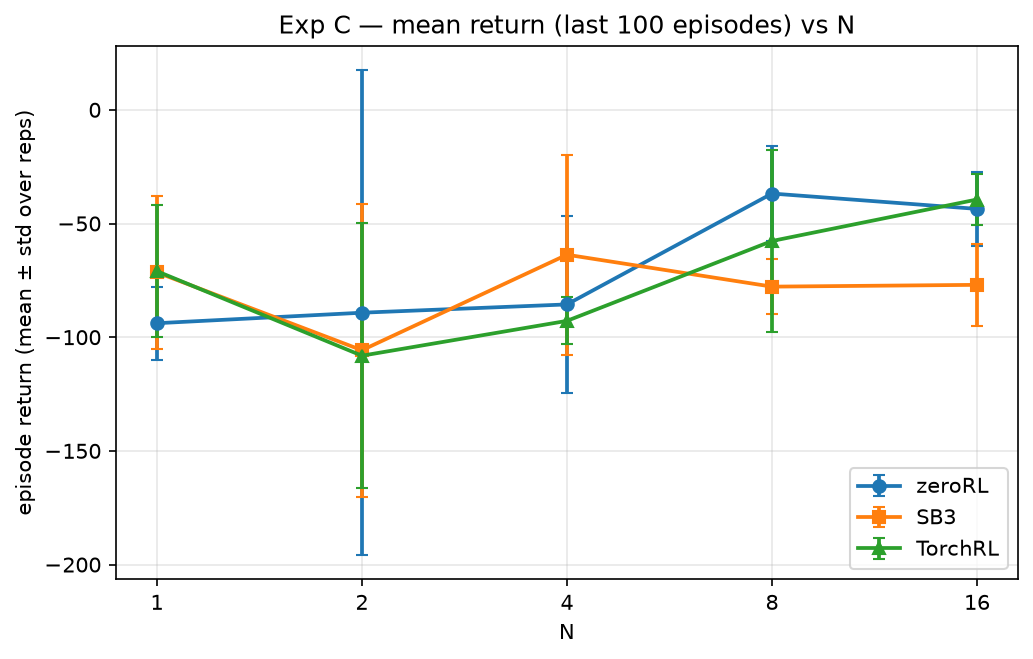
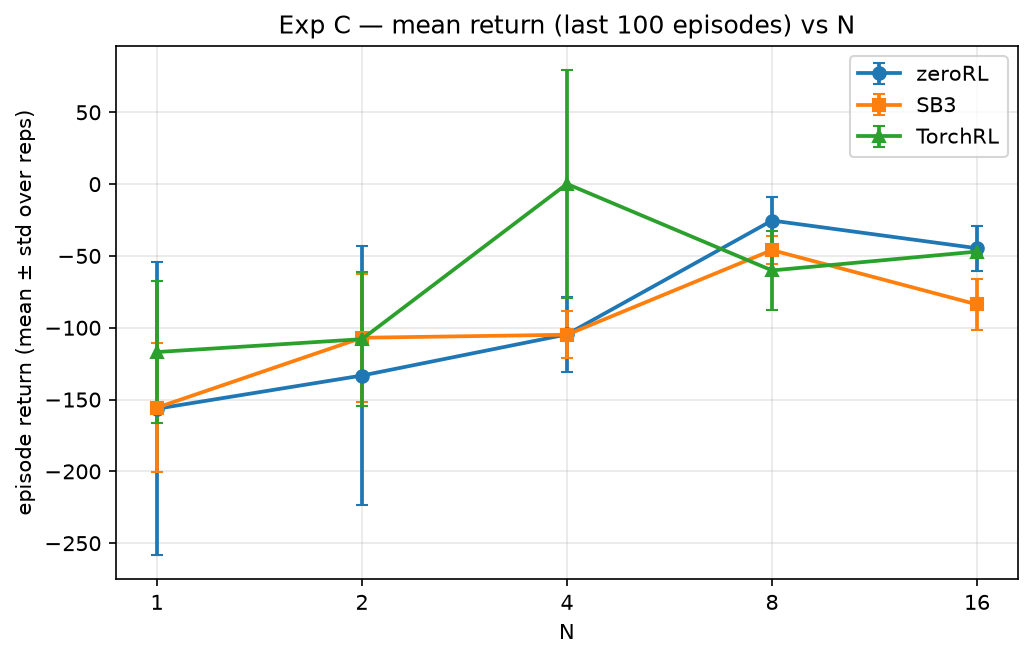
execucate bench

diff --git a/benchmarks/scalability/results/REPORT.md b/benchmarks/scalability/results/REPORT.md
@@ -1,24 +1,24 @@
 # Scalability benchmark report
 
-Generated: 2026-11-01T05:03:06.155123+00:00 · rows: 225 · figures in `figures/`
+Generated: 2026-11-03T23:13:55.289212+00:00 · rows: 517 · figures in `figures/`
 
 ## Environment
 
 | key | value |
 | --- | --- |
-| python | 3.11.14 |
-| platform | Linux-5.15.167.4-microsoft-standard-WSL2-x86_64-with-glibc2.39 |
-| processor | x86_64 |
+| python | 3.13.14 |
+| platform | Linux-6.8.12-tegra-aarch64-with-glibc2.39 |
+| processor | aarch64 |
 | device | cpu |
-| hostname | darrius |
+| hostname | gpu1 |
 | torch | 2.13.0+cu130 |
-| torch_num_threads | 6 |
-| cuda_available | False |
+| torch_num_threads | 14 |
+| cuda_available | True |
 | gymnasium | 1.3.0 |
-| sb3 | 2.9.2 |
+| sb3 | 2.9.0 |
 | torchrl | 0.14.1 |
 | tensordict | 0.14.3 |
-| git_sha | 6e59107451973271173ada17576bd74858297f8c |
+| git_sha | 8eb6392d7b63993aa0108ea1a6d24946bc28df8f |
 
 ## Methodology (summary)
 
@@ -33,21 +33,21 @@ Generated: 2026-11-01T05:03:06.155123+00:00 · rows: 225 · figures in `figures/
 
 | framework | N | throughput (trans/s) | mean time (s) | speedup (paired) | env-scaling efficiency (paired) | pairs (n) |
 | --- | --- | --- | --- | --- | --- | --- |
-| zeroRL | 1 | 1,926.8 ± 25.1 | 51.91 | 1.00 | 1.00 | 5 |
-| zeroRL | 2 | 2,344.1 ± 64.4 | 42.69 | 1.22 ± 0.04 | 0.61 ± 0.02 | 5 |
-| zeroRL | 4 | 3,760.2 ± 106.7 | 26.61 | 1.95 ± 0.06 | 0.49 ± 0.01 | 5 |
-| zeroRL | 8 | 5,598.6 ± 87.7 | 17.87 | 2.91 ± 0.06 | 0.36 ± 0.01 | 5 |
-| zeroRL | 16 | 7,283.1 ± 200.1 | 13.74 | 3.78 ± 0.14 | 0.24 ± 0.01 | 5 |
-| SB3 | 1 | 1,887.7 ± 32.6 | 52.99 | 1.00 | 1.00 | 5 |
-| SB3 | 2 | 2,321.5 ± 49.4 | 43.09 | 1.23 ± 0.03 | 0.62 ± 0.02 | 5 |
-| SB3 | 4 | 3,770.5 ± 94.6 | 26.54 | 2.00 ± 0.06 | 0.50 ± 0.02 | 5 |
-| SB3 | 8 | 5,547.9 ± 263.8 | 18.06 | 2.94 ± 0.10 | 0.37 ± 0.01 | 5 |
-| SB3 | 16 | 7,280.2 ± 370.6 | 13.76 | 3.86 ± 0.22 | 0.24 ± 0.01 | 5 |
-| TorchRL | 1 | 645.3 ± 5.6 | 154.97 | 1.00 | 1.00 | 5 |
-| TorchRL | 2 | 848.1 ± 17.2 | 117.96 | 1.31 ± 0.03 | 0.66 ± 0.02 | 5 |
-| TorchRL | 4 | 1,521.4 ± 10.1 | 65.73 | 2.36 ± 0.03 | 0.59 ± 0.01 | 5 |
-| TorchRL | 8 | 2,660.1 ± 41.4 | 37.60 | 4.12 ± 0.04 | 0.52 ± 0.01 | 5 |
-| TorchRL | 16 | 4,293.9 ± 174.2 | 23.32 | 6.65 ± 0.30 | 0.42 ± 0.02 | 5 |
+| zeroRL | 1 | 1,657.0 ± 15.6 | 60.35 | 1.00 | 1.00 | 5 |
+| zeroRL | 2 | 2,415.7 ± 38.8 | 41.41 | 1.46 ± 0.02 | 0.73 ± 0.01 | 5 |
+| zeroRL | 4 | 4,582.0 ± 47.1 | 21.83 | 2.75 ± 0.05 | 0.69 ± 0.01 | 5 |
+| zeroRL | 8 | 4,755.4 ± 40.3 | 21.03 | 2.86 ± 0.03 | 0.36 ± 0.00 | 5 |
+| zeroRL | 16 | 8,175.7 ± 127.6 | 12.23 | 4.93 ± 0.05 | 0.31 ± 0.00 | 5 |
+| SB3 | 1 | 1,593.6 ± 10.5 | 62.75 | 1.00 | 1.00 | 5 |
+| SB3 | 2 | 2,448.9 ± 18.0 | 40.84 | 1.54 ± 0.01 | 0.77 ± 0.01 | 5 |
+| SB3 | 4 | 4,577.4 ± 62.5 | 21.85 | 2.85 ± 0.05 | 0.71 ± 0.01 | 5 |
+| SB3 | 8 | 4,712.2 ± 29.3 | 21.22 | 2.96 ± 0.03 | 0.37 ± 0.00 | 5 |
+| SB3 | 16 | 7,991.2 ± 124.6 | 12.52 | 5.02 ± 0.13 | 0.31 ± 0.01 | 5 |
+| TorchRL | 1 | 826.2 ± 23.6 | 121.13 | 1.00 | 1.00 | 5 |
+| TorchRL | 2 | 1,307.2 ± 73.6 | 76.72 | 1.53 ± 0.06 | 0.76 ± 0.03 | 5 |
+| TorchRL | 4 | 2,382.4 ± 125.0 | 42.08 | 2.79 ± 0.10 | 0.70 ± 0.02 | 5 |
+| TorchRL | 8 | 3,375.6 ± 98.6 | 29.65 | 4.05 ± 0.11 | 0.51 ± 0.01 | 5 |
+| TorchRL | 16 | 5,785.2 ± 193.1 | 17.30 | 6.94 ± 0.36 | 0.43 ± 0.02 | 5 |
 
 ![throughput](figures/expA_throughput.png)
 
@@ -56,17 +56,46 @@ Generated: 2026-11-01T05:03:06.155123+00:00 · rows: 225 · figures in `figures/
 ![efficiency](figures/expA_efficiency.png)
 
 
+## Experiment A — GPU (device=cuda)
+
+Rows recorded with device=cuda; every statistic in this section is computed on this side only and never combined with CPU rows.
+
+| framework | N | throughput (trans/s) | mean time (s) | speedup (paired) | env-scaling efficiency (paired) | pairs (n) |
+| --- | --- | --- | --- | --- | --- | --- |
+| zeroRL | 1 | 1,084.8 ± 30.7 | 92.25 | 1.00 | 1.00 | 5 |
+| zeroRL | 2 | 2,031.1 ± 37.8 | 49.25 | 1.85 ± 0.05 | 0.93 ± 0.02 | 5 |
+| zeroRL | 4 | 3,752.1 ± 114.4 | 26.68 | 3.42 ± 0.07 | 0.86 ± 0.02 | 5 |
+| zeroRL | 8 | 6,132.1 ± 209.2 | 16.33 | 5.62 ± 0.24 | 0.70 ± 0.03 | 5 |
+| zeroRL | 16 | 10,055.8 ± 364.0 | 9.96 | 9.17 ± 0.29 | 0.57 ± 0.02 | 5 |
+| SB3 | 1 | 1,301.8 ± 31.2 | 76.86 | 1.00 | 1.00 | 5 |
+| SB3 | 2 | 2,458.5 ± 49.7 | 40.69 | 1.87 ± 0.04 | 0.93 ± 0.02 | 5 |
+| SB3 | 4 | 4,491.4 ± 116.8 | 22.28 | 3.51 ± 0.08 | 0.88 ± 0.02 | 5 |
+| SB3 | 8 | 7,658.3 ± 298.3 | 13.08 | 5.93 ± 0.20 | 0.74 ± 0.02 | 5 |
+| SB3 | 16 | 12,179.2 ± 339.5 | 8.22 | 9.24 ± 0.39 | 0.58 ± 0.02 | 5 |
+| TorchRL | 1 | 643.8 ± 15.5 | 155.42 | 1.00 | 1.00 | 5 |
+| TorchRL | 2 | 1,245.6 ± 7.2 | 80.28 | 1.94 ± 0.05 | 0.97 ± 0.03 | 5 |
+| TorchRL | 4 | 2,270.8 ± 56.6 | 44.06 | 3.55 ± 0.08 | 0.89 ± 0.02 | 5 |
+| TorchRL | 8 | 4,015.5 ± 190.4 | 24.96 | 6.07 ± 0.44 | 0.76 ± 0.06 | 5 |
+| TorchRL | 16 | 6,809.0 ± 204.9 | 14.70 | 10.39 ± 0.44 | 0.65 ± 0.03 | 5 |
+
+![throughput](figures/expA_gpu_throughput.png)
+
+![speedup](figures/expA_gpu_speedup.png)
+
+![efficiency](figures/expA_gpu_efficiency.png)
+
+
 ## Experiment B — worker scaling (collection, N=8)
 
 | framework | W | throughput (trans/s) | mean time (s) | speedup (paired) | worker parallel efficiency (paired) | pairs (n) |
 | --- | --- | --- | --- | --- | --- | --- |
-| zeroRL | 1 | 5,639.2 ± 181.1 | 17.75 | 1.00 | 1.00 | 5 |
-| SB3 | 1 | 5,460.7 ± 248.0 | 18.34 | 1.00 | 1.00 | 5 |
-| SB3 | 8 | 2,886.7 ± 56.7 | 34.65 | 0.53 ± 0.02 | 0.07 ± 0.00 | 5 |
-| TorchRL | 1 | 2,619.0 ± 106.1 | 38.23 | 1.00 | 1.00 | 5 |
-| TorchRL | 2 | 3,853.9 ± 161.9 | 25.99 | 1.47 ± 0.10 | 0.74 ± 0.05 | 5 |
-| TorchRL | 4 | 3,105.6 ± 120.1 | 32.24 | 1.19 ± 0.04 | 0.30 ± 0.01 | 5 |
-| TorchRL | 8 | 2,119.0 ± 76.3 | 47.24 | 0.81 ± 0.05 | 0.10 ± 0.01 | 5 |
+| zeroRL | 1 | 4,474.1 ± 20.8 | 22.35 | 1.00 | 1.00 | 5 |
+| SB3 | 1 | 4,472.1 ± 38.7 | 22.36 | 1.00 | 1.00 | 5 |
+| SB3 | 8 | 3,966.0 ± 59.4 | 25.22 | 0.89 ± 0.02 | 0.11 ± 0.00 | 5 |
+| TorchRL | 1 | 3,308.5 ± 8.5 | 30.23 | 1.00 | 1.00 | 5 |
+| TorchRL | 2 | 7,332.2 ± 273.1 | 13.65 | 2.22 ± 0.08 | 1.11 ± 0.04 | 5 |
+| TorchRL | 4 | 7,842.2 ± 69.0 | 12.75 | 2.37 ± 0.02 | 0.59 ± 0.01 | 5 |
+| TorchRL | 8 | 8,452.6 ± 104.3 | 11.83 | 2.55 ± 0.04 | 0.32 ± 0.00 | 5 |
 
 **Unsupported (recorded, not run)**:
 
@@ -107,21 +136,21 @@ Generated: 2026-11-01T05:03:06.155123+00:00 · rows: 225 · figures in `figures/
 
 | framework | N | updates | throughput (trans/s) | mean time (s) | mean return (last 100) | reps |
 | --- | --- | --- | --- | --- | --- | --- |
-| zeroRL | 1 | 128 | 1,121.7 ± 131.9 | 236.0 | -93.9 ± 16.0 | 3 |
-| zeroRL | 2 | 64 | 1,316.5 ± 27.9 | 199.2 | -89.2 ± 106.6 | 3 |
-| zeroRL | 4 | 32 | 1,712.3 ± 12.7 | 153.1 | -85.6 ± 38.8 | 3 |
-| zeroRL | 8 | 16 | 2,003.3 ± 40.8 | 130.9 | -36.8 ± 20.8 | 3 |
-| zeroRL | 16 | 8 | 2,200.9 ± 21.6 | 119.1 | -43.6 ± 16.3 | 3 |
-| SB3 | 1 | 128 | 1,037.1 ± 13.7 | 252.8 | -71.5 ± 33.5 | 3 |
-| SB3 | 2 | 64 | 1,148.1 ± 6.4 | 228.3 | -105.7 ± 64.5 | 3 |
-| SB3 | 4 | 32 | 1,389.1 ± 23.3 | 188.7 | -63.7 ± 44.0 | 3 |
-| SB3 | 8 | 16 | 1,163.9 ± 248.5 | 231.5 | -77.8 ± 12.0 | 3 |
-| SB3 | 16 | 8 | 1,014.6 ± 88.8 | 259.7 | -77.0 ± 18.0 | 3 |
-| TorchRL | 1 | 128 | 347.0 ± 33.4 | 759.9 | -71.0 ± 29.0 | 3 |
-| TorchRL | 2 | 64 | 477.9 ± 13.0 | 548.8 | -108.1 ± 58.3 | 3 |
-| TorchRL | 4 | 32 | 634.0 ± 4.3 | 413.5 | -92.8 ± 10.4 | 3 |
-| TorchRL | 8 | 16 | 782.3 ± 13.3 | 335.1 | -57.7 ± 39.9 | 3 |
-| TorchRL | 16 | 8 | 884.6 ± 1.1 | 296.4 | -39.4 ± 11.4 | 3 |
+| zeroRL | 1 | 128 | 766.1 ± 4.5 | 342.2 | -156.4 ± 102.0 | 3 |
+| zeroRL | 2 | 64 | 967.9 ± 18.2 | 270.9 | -133.3 ± 90.1 | 3 |
+| zeroRL | 4 | 32 | 1,274.8 ± 8.4 | 205.6 | -104.6 ± 26.3 | 3 |
+| zeroRL | 8 | 16 | 1,283.2 ± 5.5 | 204.3 | -25.3 ± 16.3 | 3 |
+| zeroRL | 16 | 8 | 1,453.1 ± 5.5 | 180.4 | -44.6 ± 15.7 | 3 |
+| SB3 | 1 | 128 | 723.5 ± 2.6 | 362.3 | -155.6 ± 44.8 | 3 |
+| SB3 | 2 | 64 | 877.0 ± 0.8 | 298.9 | -107.0 ± 44.6 | 3 |
+| SB3 | 4 | 32 | 1,056.8 ± 4.6 | 248.1 | -104.9 ± 16.5 | 3 |
+| SB3 | 8 | 16 | 1,065.9 ± 3.0 | 245.9 | -45.9 ± 9.6 | 3 |
+| SB3 | 16 | 8 | 1,186.6 ± 2.6 | 220.9 | -83.8 ± 17.8 | 3 |
+| TorchRL | 1 | 128 | 424.2 ± 3.0 | 618.0 | -116.9 ± 49.3 | 3 |
+| TorchRL | 2 | 64 | 536.6 ± 2.3 | 488.6 | -107.9 ± 46.7 | 3 |
+| TorchRL | 4 | 32 | 689.6 ± 2.1 | 380.1 | 0.2 ± 79.1 | 3 |
+| TorchRL | 8 | 16 | 780.2 ± 1.0 | 336.0 | -60.1 ± 27.6 | 3 |
+| TorchRL | 16 | 8 | 861.9 ± 3.9 | 304.2 | -47.0 ± 2.1 | 3 |
 
 ![throughput](figures/expC_throughput.png)
 
@@ -132,21 +161,21 @@ Generated: 2026-11-01T05:03:06.155123+00:00 · rows: 225 · figures in `figures/
 
 | framework | N | updates | throughput (trans/s) | mean time (s) | mean return (last 100) | reps |
 | --- | --- | --- | --- | --- | --- | --- |
-| zeroRL | 1 | 128 | 1,092.9 ± 26.9 | 240.0 | -93.9 ± 16.0 | 3 |
-| zeroRL | 2 | 128 | 1,221.0 ± 15.4 | 214.7 | -74.5 ± 140.2 | 3 |
-| zeroRL | 4 | 128 | 1,585.6 ± 9.8 | 165.3 | -142.7 ± 52.2 | 3 |
-| zeroRL | 8 | 128 | 1,823.5 ± 39.3 | 143.8 | -101.0 ± 98.2 | 3 |
-| zeroRL | 16 | 128 | 1,881.7 ± 42.7 | 139.4 | -37.3 ± 67.3 | 3 |
-| SB3 | 1 | 128 | 832.5 ± 23.6 | 315.0 | -71.5 ± 33.5 | 3 |
-| SB3 | 2 | 128 | 941.6 ± 1.3 | 278.4 | -117.1 ± 104.9 | 3 |
-| SB3 | 4 | 128 | 1,145.3 ± 5.0 | 228.9 | -118.7 ± 21.7 | 3 |
-| SB3 | 8 | 128 | 1,287.2 ± 7.1 | 203.7 | -54.4 ± 36.8 | 3 |
-| SB3 | 16 | 128 | 1,365.6 ± 10.2 | 192.0 | -145.7 ± 24.8 | 3 |
-| TorchRL | 1 | 128 | 367.3 ± 0.5 | 713.8 | -71.0 ± 29.0 | 3 |
-| TorchRL | 2 | 128 | 433.1 ± 3.3 | 605.3 | -138.5 ± 64.1 | 3 |
-| TorchRL | 4 | 128 | 572.8 ± 12.2 | 457.8 | -82.0 ± 54.6 | 3 |
-| TorchRL | 8 | 128 | 705.3 ± 19.0 | 371.8 | -118.4 ± 39.7 | 3 |
-| TorchRL | 16 | 128 | 802.6 ± 10.7 | 326.6 | -118.9 ± 71.6 | 3 |
+| zeroRL | 1 | 128 | 816.5 ± 4.1 | 321.1 | -156.4 ± 102.0 | 3 |
+| zeroRL | 2 | 128 | 1,028.6 ± 1.0 | 254.9 | -93.2 ± 9.3 | 3 |
+| zeroRL | 4 | 128 | 1,279.2 ± 3.0 | 204.9 | -162.9 ± 44.9 | 3 |
+| zeroRL | 8 | 128 | 1,293.0 ± 5.7 | 202.8 | -59.4 ± 66.5 | 3 |
+| zeroRL | 16 | 128 | 1,484.7 ± 5.2 | 176.6 | -68.4 ± 111.2 | 3 |
+| SB3 | 1 | 128 | 716.9 ± 1.9 | 365.7 | -155.6 ± 44.8 | 3 |
+| SB3 | 2 | 128 | 873.2 ± 3.6 | 300.2 | -53.4 ± 38.9 | 3 |
+| SB3 | 4 | 128 | 1,046.4 ± 2.1 | 250.5 | -97.3 ± 112.5 | 3 |
+| SB3 | 8 | 128 | 1,063.3 ± 1.6 | 246.5 | -78.1 ± 111.2 | 3 |
+| SB3 | 16 | 128 | 1,174.8 ± 5.8 | 223.1 | -96.1 ± 46.7 | 3 |
+| TorchRL | 1 | 128 | 431.0 ± 3.0 | 608.2 | -116.9 ± 49.3 | 3 |
+| TorchRL | 2 | 128 | 552.3 ± 2.1 | 474.7 | -57.5 ± 80.4 | 3 |
+| TorchRL | 4 | 128 | 707.9 ± 2.7 | 370.3 | -117.8 ± 57.2 | 3 |
+| TorchRL | 8 | 128 | 803.0 ± 9.3 | 326.5 | -125.5 ± 4.8 | 3 |
+| TorchRL | 16 | 128 | 887.8 ± 11.4 | 295.3 | -58.2 ± 98.9 | 3 |
 
 ![throughput](figures/expD_throughput.png)
 
@@ -155,52 +184,55 @@ Generated: 2026-11-01T05:03:06.155123+00:00 · rows: 225 · figures in `figures/
 
 ## Findings (computed from the data)
 
-- Exp A collection, N=1: fastest = **zeroRL** (1,927 trans/s); also SB3 1,888, TorchRL 645.
-- Exp A collection, N=2: fastest = **zeroRL** (2,344 trans/s); also SB3 2,322, TorchRL 848.
-- Exp A collection, N=4: fastest = **SB3** (3,770 trans/s); also zeroRL 3,760, TorchRL 1,521.
-- Exp A collection, N=8: fastest = **zeroRL** (5,599 trans/s); also SB3 5,548, TorchRL 2,660.
-- Exp A collection, N=16: fastest = **zeroRL** (7,283 trans/s); also SB3 7,280, TorchRL 4,294.
-- Exp B collection, W=1 (N=8): fastest = **zeroRL** (5,639 trans/s); also SB3 5,461, TorchRL 2,619.
-- Exp B collection, W=2 (N=8): fastest = **TorchRL** (3,854 trans/s).
-- Exp B collection, W=4 (N=8): fastest = **TorchRL** (3,106 trans/s).
-- Exp B collection, W=8 (N=8): fastest = **SB3** (2,887 trans/s); also TorchRL 2,119.
-- Exp C PPO, N=1: fastest = **zeroRL** (1,122 trans/s); also SB3 1,037, TorchRL 347.
-- Exp C PPO, N=2: fastest = **zeroRL** (1,316 trans/s); also SB3 1,148, TorchRL 478.
-- Exp C PPO, N=4: fastest = **zeroRL** (1,712 trans/s); also SB3 1,389, TorchRL 634.
-- Exp C PPO, N=8: fastest = **zeroRL** (2,003 trans/s); also SB3 1,164, TorchRL 782.
-- Exp C PPO, N=16: fastest = **zeroRL** (2,201 trans/s); also SB3 1,015, TorchRL 885.
-- Exp D PPO, N=1: fastest = **zeroRL** (1,093 trans/s); also SB3 833, TorchRL 367.
-- Exp D PPO, N=2: fastest = **zeroRL** (1,221 trans/s); also SB3 942, TorchRL 433.
-- Exp D PPO, N=4: fastest = **zeroRL** (1,586 trans/s); also SB3 1,145, TorchRL 573.
-- Exp D PPO, N=8: fastest = **zeroRL** (1,824 trans/s); also SB3 1,287, TorchRL 705.
-- Exp D PPO, N=16: fastest = **zeroRL** (1,882 trans/s); also SB3 1,366, TorchRL 803.
-- zeroRL env-scaling efficiency at N=16: 0.24 ± 0.01 (speedup 3.78 ± 0.14, n=5 paired reps, 16x envs).
-- SB3 env-scaling efficiency at N=16: 0.24 ± 0.01 (speedup 3.86 ± 0.22, n=5 paired reps, 16x envs).
-- TorchRL env-scaling efficiency at N=16: 0.42 ± 0.02 (speedup 6.65 ± 0.30, n=5 paired reps, 16x envs).
+- Exp A collection, N=1: fastest = **zeroRL** (1,657 trans/s); also SB3 1,594, TorchRL 826.
+- Exp A collection, N=2: fastest = **SB3** (2,449 trans/s); also zeroRL 2,416, TorchRL 1,307.
+- Exp A collection, N=4: fastest = **zeroRL** (4,582 trans/s); also SB3 4,577, TorchRL 2,382.
+- Exp A collection, N=8: fastest = **zeroRL** (4,755 trans/s); also SB3 4,712, TorchRL 3,376.
+- Exp A collection, N=16: fastest = **zeroRL** (8,176 trans/s); also SB3 7,991, TorchRL 5,785.
+- Exp B collection, W=1 (N=8): fastest = **zeroRL** (4,474 trans/s); also SB3 4,472, TorchRL 3,309.
+- Exp B collection, W=2 (N=8): fastest = **TorchRL** (7,332 trans/s).
+- Exp B collection, W=4 (N=8): fastest = **TorchRL** (7,842 trans/s).
+- Exp B collection, W=8 (N=8): fastest = **TorchRL** (8,453 trans/s); also SB3 3,966.
+- Exp C PPO, N=1: fastest = **zeroRL** (766 trans/s); also SB3 724, TorchRL 424.
+- Exp C PPO, N=2: fastest = **zeroRL** (968 trans/s); also SB3 877, TorchRL 537.
+- Exp C PPO, N=4: fastest = **zeroRL** (1,275 trans/s); also SB3 1,057, TorchRL 690.
+- Exp C PPO, N=8: fastest = **zeroRL** (1,283 trans/s); also SB3 1,066, TorchRL 780.
+- Exp C PPO, N=16: fastest = **zeroRL** (1,453 trans/s); also SB3 1,187, TorchRL 862.
+- Exp D PPO, N=1: fastest = **zeroRL** (817 trans/s); also SB3 717, TorchRL 431.
+- Exp D PPO, N=2: fastest = **zeroRL** (1,029 trans/s); also SB3 873, TorchRL 552.
+- Exp D PPO, N=4: fastest = **zeroRL** (1,279 trans/s); also SB3 1,046, TorchRL 708.
+- Exp D PPO, N=8: fastest = **zeroRL** (1,293 trans/s); also SB3 1,063, TorchRL 803.
+- Exp D PPO, N=16: fastest = **zeroRL** (1,485 trans/s); also SB3 1,175, TorchRL 888.
+- zeroRL env-scaling efficiency at N=16: 0.31 ± 0.00 (speedup 4.93 ± 0.05, n=5 paired reps, 16x envs).
+- SB3 env-scaling efficiency at N=16: 0.31 ± 0.01 (speedup 5.02 ± 0.13, n=5 paired reps, 16x envs).
+- TorchRL env-scaling efficiency at N=16: 0.43 ± 0.02 (speedup 6.94 ± 0.36, n=5 paired reps, 16x envs).
 - zeroRL worker parallel efficiency at W=1: 1.00 (speedup 1.00, n=5 paired reps, 1x workers).
-- SB3 worker parallel efficiency at W=8: 0.07 ± 0.00 (speedup 0.53 ± 0.02, n=5 paired reps, 8x workers).
-- TorchRL worker parallel efficiency at W=8: 0.10 ± 0.01 (speedup 0.81 ± 0.05, n=5 paired reps, 8x workers).
-- zeroRL N=1: training throughput C=1,122 vs D=1,093 trans/s (C faster).
-- SB3 N=1: training throughput C=1,037 vs D=833 trans/s (C faster).
-- TorchRL N=1: training throughput C=347 vs D=367 trans/s (D faster).
+- SB3 worker parallel efficiency at W=8: 0.11 ± 0.00 (speedup 0.89 ± 0.02, n=5 paired reps, 8x workers).
+- TorchRL worker parallel efficiency at W=8: 0.32 ± 0.00 (speedup 2.55 ± 0.04, n=5 paired reps, 8x workers).
+- zeroRL N=1: training throughput C=766 vs D=817 trans/s (D faster).
+- SB3 N=1: training throughput C=724 vs D=717 trans/s (≈ equal).
+- TorchRL N=1: training throughput C=424 vs D=431 trans/s (D faster).
 
 ## Data integrity
 
 | experiment | ok | failed | unsupported |
 | --- | --- | --- | --- |
-| A | 75 | 0 | 0 |
+| A | 162 | 0 | 0 |
 | B | 35 | 0 | 25 |
 | C | 45 | 0 | 0 |
 | D | 45 | 0 | 0 |
 
 All ok rows recorded an exact transition budget.
 
-Total rows: 225.
+GPU rows: 205 (device=cuda)
+
+Total rows: 517.
 
 ## Appendix — protocol C/D configuration (from a result row)
 
 | key | value |
 | --- | --- |
+| device | cpu |
 | env_id | LunarLander-v3 |
 | rollout_steps_per_env | 2048 |
 | rollout_global | 2048 |
